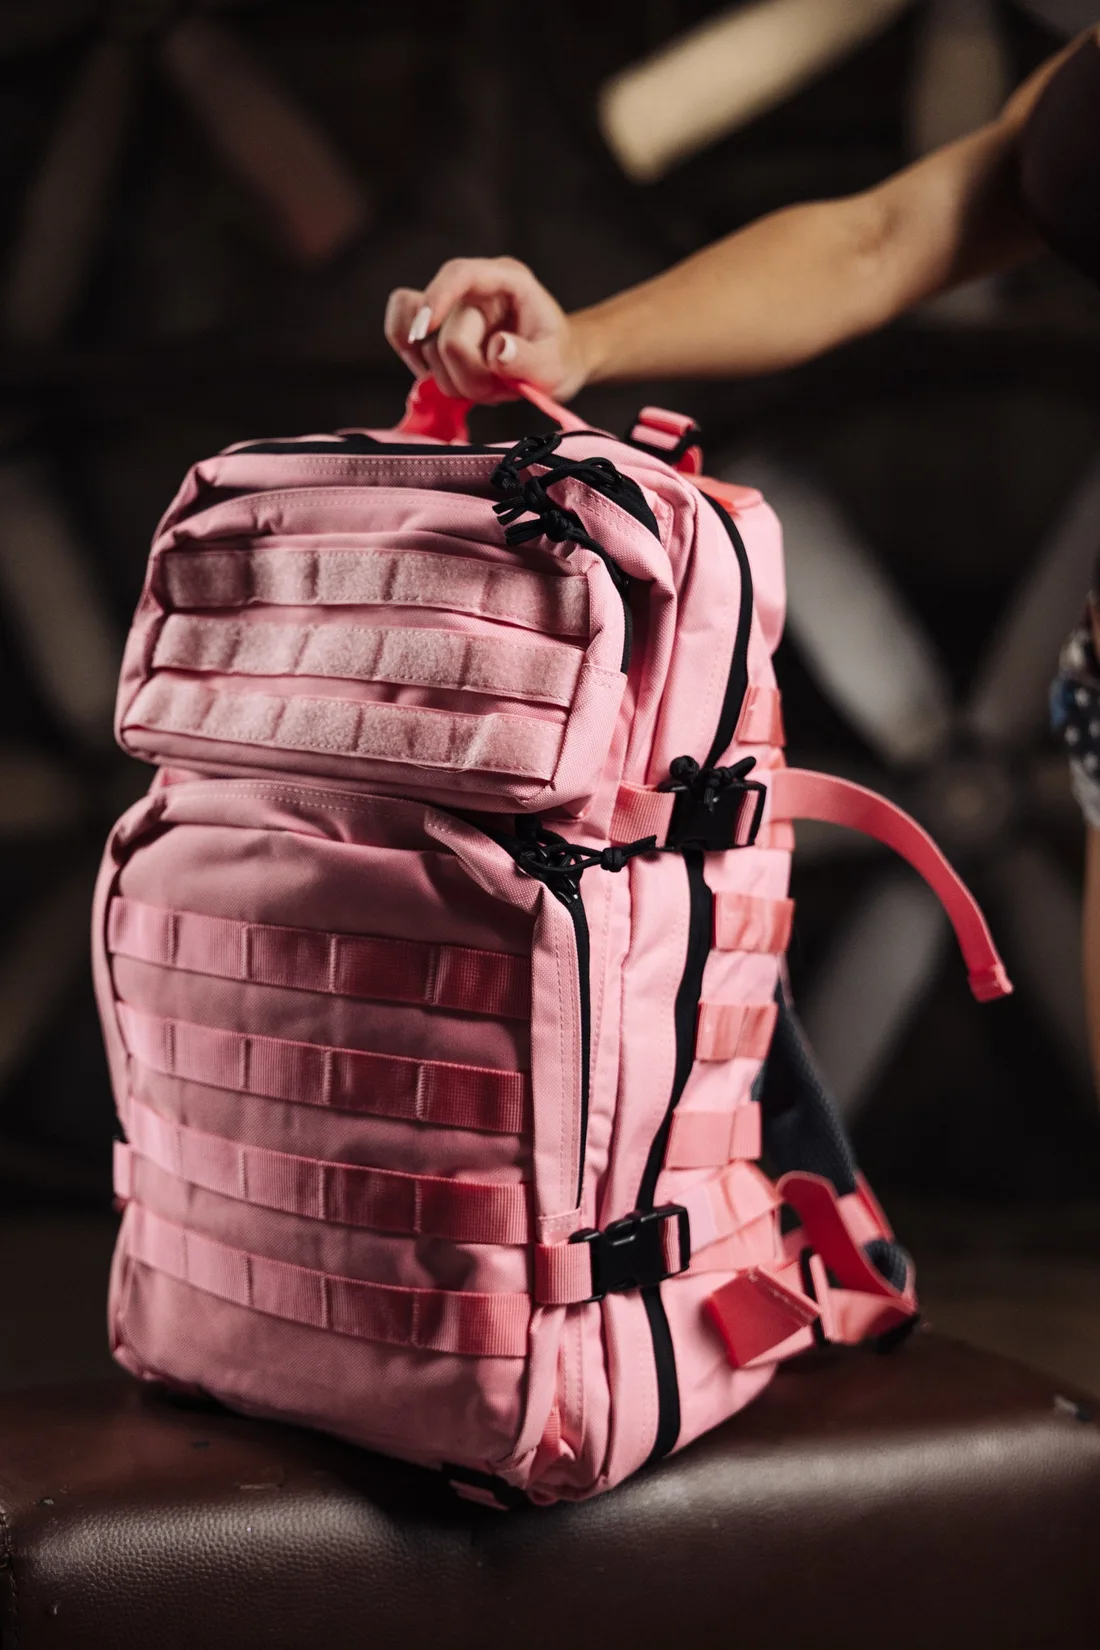
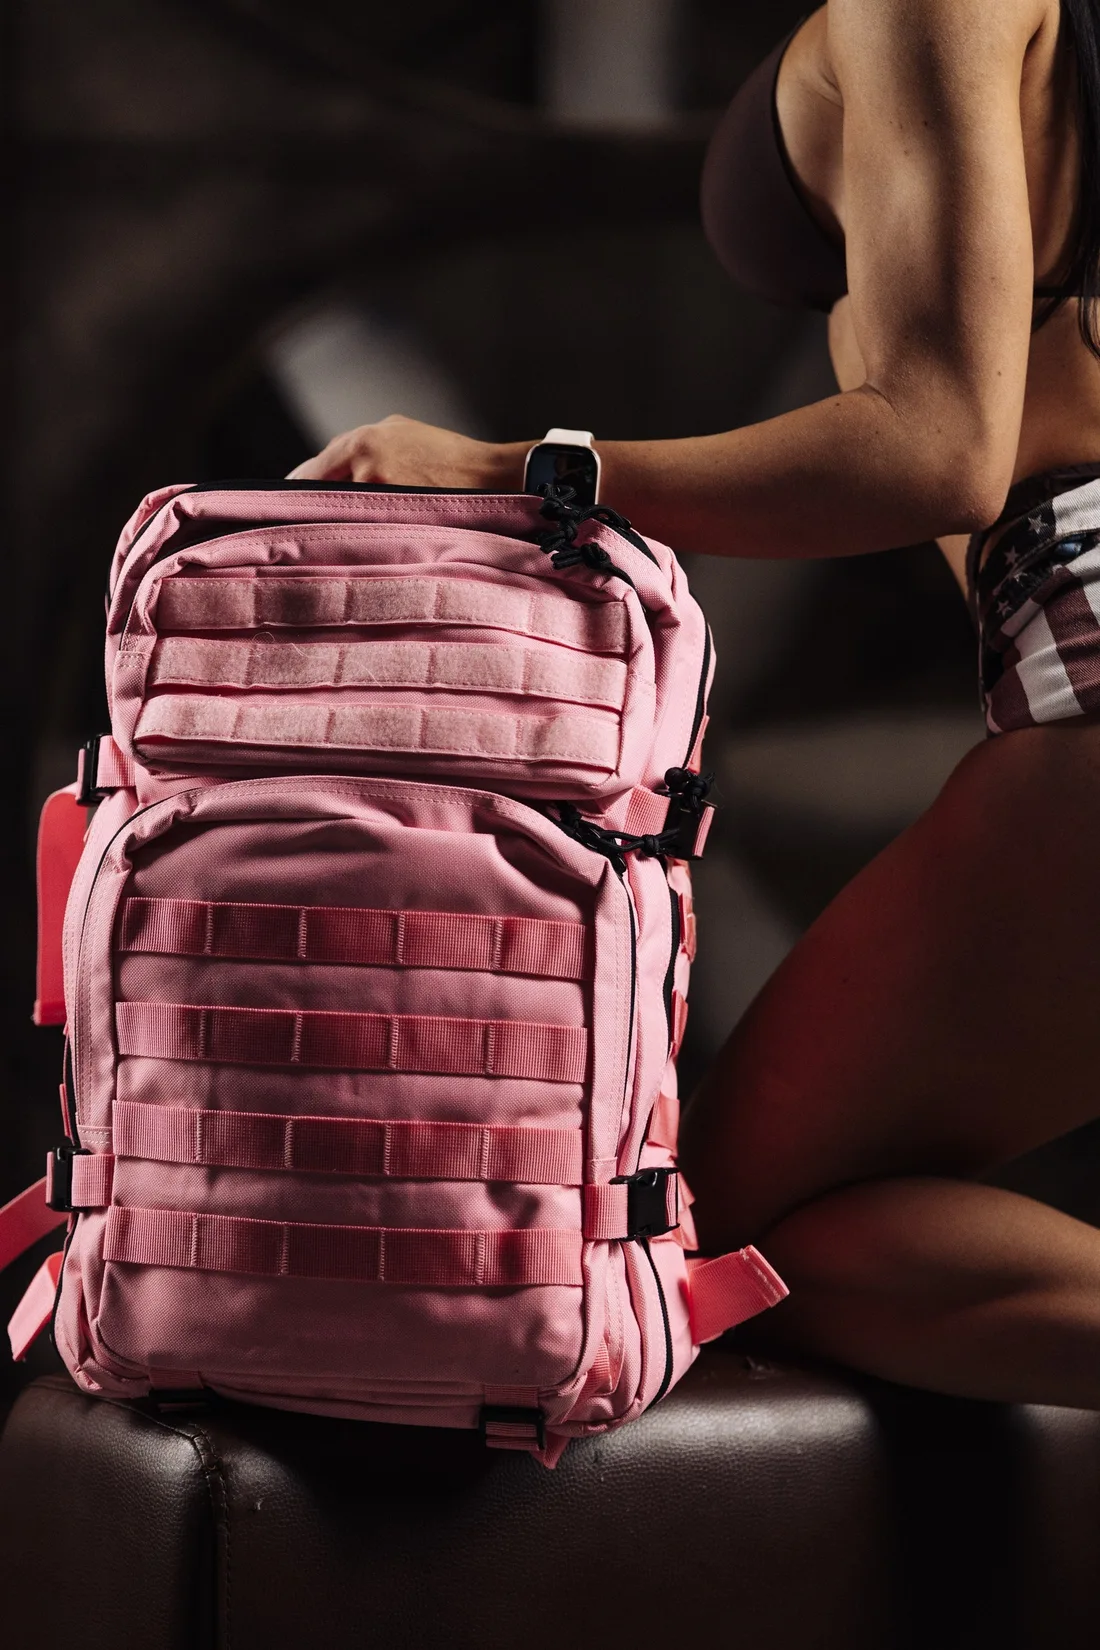
Show full uncropped pink backpack in catalog and modal

diff --git a/dist/styles.css b/dist/styles.css
@@ -64,7 +64,9 @@ button:focus-visible, a:focus-visible, input:focus-visible, textarea:focus-visib
 .product-image-frame { position: relative; width: 100%; aspect-ratio: 3 / 4; background: #302a26; overflow: hidden; }
 .product-image-wrap { display: block; width: 100%; height: 100%; padding: 0; border: 0; background: transparent; cursor: zoom-in; }
 .product-image { display: block; width: 100%; height: 100%; object-fit: cover; object-position: center 44%; transition: transform .45s ease; }
+.product-image-frame[data-product="pink"] .product-image[src*="pink.webp"] { object-fit: contain; }
 .product-image-wrap:hover .product-image { transform: scale(1.025); }
+.product-image-frame[data-product="pink"] .product-image-wrap:hover .product-image[src*="pink.webp"] { transform: none; }
 .photo-dots { position: absolute; z-index: 2; bottom: 9px; left: 50%; transform: translateX(-50%); display: flex; padding: 0 4px; border-radius: 28px; background: rgba(18,18,18,.48); }
 .photo-dot { width: 44px; height: 44px; display: grid; place-items: center; padding: 0; border: 0; background: transparent; touch-action: manipulation; }
 .photo-dot::before { content: ''; width: 7px; height: 7px; border: 1px solid #fff; border-radius: 50%; background: transparent; }
@@ -132,6 +134,7 @@ button:focus-visible, a:focus-visible, input:focus-visible, textarea:focus-visib
 .product-modal.is-open { opacity: 1; visibility: visible; pointer-events: auto; transform: translate(-50%, -50%); }
 .modal-gallery { min-width: 0; display: flex; flex-direction: column; }
 .modal-gallery > img { display: block; width: 100%; height: 438px; object-fit: cover; object-position: center 43%; touch-action: pan-y; }
+#modalImage[src*="pink.webp"] { object-fit: contain; background: #211d1a; }
 .modal-thumbnails { display: flex; justify-content: center; gap: 8px; padding: 10px; overflow-x: auto; }
 .modal-thumb { width: 68px; height: 74px; padding: 0; border: 2px solid transparent; background: #302a26; flex: none; touch-action: manipulation; }
 .modal-thumb[aria-pressed='true'] { border-color: var(--accent); }

diff --git a/styles.css b/styles.css
@@ -64,7 +64,9 @@ button:focus-visible, a:focus-visible, input:focus-visible, textarea:focus-visib
 .product-image-frame { position: relative; width: 100%; aspect-ratio: 3 / 4; background: #302a26; overflow: hidden; }
 .product-image-wrap { display: block; width: 100%; height: 100%; padding: 0; border: 0; background: transparent; cursor: zoom-in; }
 .product-image { display: block; width: 100%; height: 100%; object-fit: cover; object-position: center 44%; transition: transform .45s ease; }
+.product-image-frame[data-product="pink"] .product-image[src*="pink.webp"] { object-fit: contain; }
 .product-image-wrap:hover .product-image { transform: scale(1.025); }
+.product-image-frame[data-product="pink"] .product-image-wrap:hover .product-image[src*="pink.webp"] { transform: none; }
 .photo-dots { position: absolute; z-index: 2; bottom: 9px; left: 50%; transform: translateX(-50%); display: flex; padding: 0 4px; border-radius: 28px; background: rgba(18,18,18,.48); }
 .photo-dot { width: 44px; height: 44px; display: grid; place-items: center; padding: 0; border: 0; background: transparent; touch-action: manipulation; }
 .photo-dot::before { content: ''; width: 7px; height: 7px; border: 1px solid #fff; border-radius: 50%; background: transparent; }
@@ -132,6 +134,7 @@ button:focus-visible, a:focus-visible, input:focus-visible, textarea:focus-visib
 .product-modal.is-open { opacity: 1; visibility: visible; pointer-events: auto; transform: translate(-50%, -50%); }
 .modal-gallery { min-width: 0; display: flex; flex-direction: column; }
 .modal-gallery > img { display: block; width: 100%; height: 438px; object-fit: cover; object-position: center 43%; touch-action: pan-y; }
+#modalImage[src*="pink.webp"] { object-fit: contain; background: #211d1a; }
 .modal-thumbnails { display: flex; justify-content: center; gap: 8px; padding: 10px; overflow-x: auto; }
 .modal-thumb { width: 68px; height: 74px; padding: 0; border: 2px solid transparent; background: #302a26; flex: none; touch-action: manipulation; }
 .modal-thumb[aria-pressed='true'] { border-color: var(--accent); }

diff --git a/dist/main.js b/dist/main.js
@@ -2,7 +2,7 @@
 // Стоимость, наличие и спецификации не публикуем до подтверждения руководителем.
 const products = [
   {id:'blue-camo',name:'Синий камуфляж',color:'Сине-голубой камуфляж',image:'blue-camo.webp',gallery:['blue-camo-2.webp','blue-camo-3.webp'],category:'backpack'},
-  {id:'pink',name:'Розовый',color:'Розовый',image:'pink.webp?v=81',gallery:['pink-2.webp','pink-3.webp'],category:'backpack'},
+  {id:'pink',name:'Розовый',color:'Розовый',image:'pink.webp?v=85-full',gallery:['pink-2.webp','pink-3.webp'],category:'backpack'},
   {id:'black-red',name:'Красно-чёрный',color:'Красно-чёрный',image:'black-red.webp',gallery:['black-red-2.webp','black-red-3.webp'],category:'backpack'},
   {id:'grey',name:'Серый камуфляж',color:'Серый камуфляж',image:'grey.webp',gallery:['grey-2.webp','grey-3.webp'],category:'backpack'},
   {id:'red',name:'Красный',color:'Красный',image:'red.webp',gallery:['red-2.webp','red-3.webp'],category:'backpack'},

diff --git a/main.js b/main.js
@@ -2,7 +2,7 @@
 // Стоимость, наличие и спецификации не публикуем до подтверждения руководителем.
 const products = [
   {id:'blue-camo',name:'Синий камуфляж',color:'Сине-голубой камуфляж',image:'blue-camo.webp',gallery:['blue-camo-2.webp','blue-camo-3.webp'],category:'backpack'},
-  {id:'pink',name:'Розовый',color:'Розовый',image:'pink.webp?v=81',gallery:['pink-2.webp','pink-3.webp'],category:'backpack'},
+  {id:'pink',name:'Розовый',color:'Розовый',image:'pink.webp?v=85-full',gallery:['pink-2.webp','pink-3.webp'],category:'backpack'},
   {id:'black-red',name:'Красно-чёрный',color:'Красно-чёрный',image:'black-red.webp',gallery:['black-red-2.webp','black-red-3.webp'],category:'backpack'},
   {id:'grey',name:'Серый камуфляж',color:'Серый камуфляж',image:'grey.webp',gallery:['grey-2.webp','grey-3.webp'],category:'backpack'},
   {id:'red',name:'Красный',color:'Красный',image:'red.webp',gallery:['red-2.webp','red-3.webp'],category:'backpack'},
